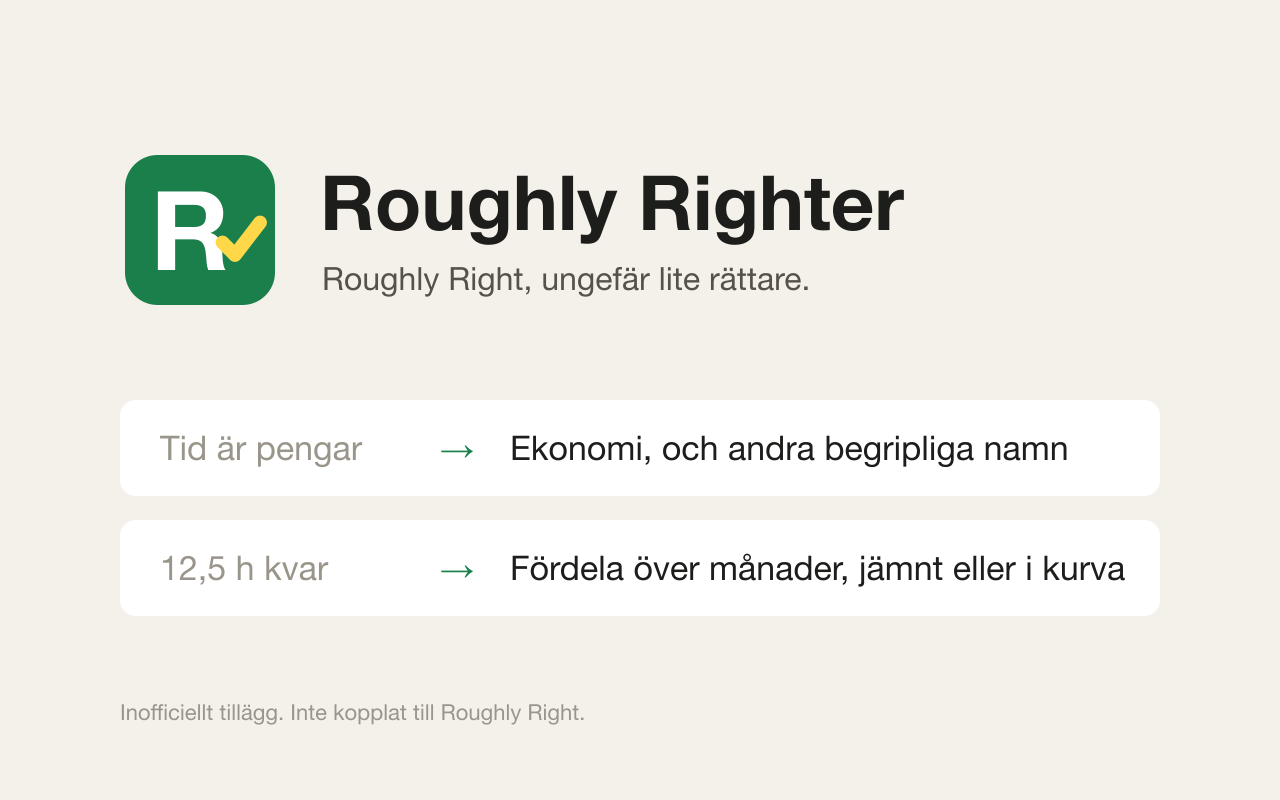
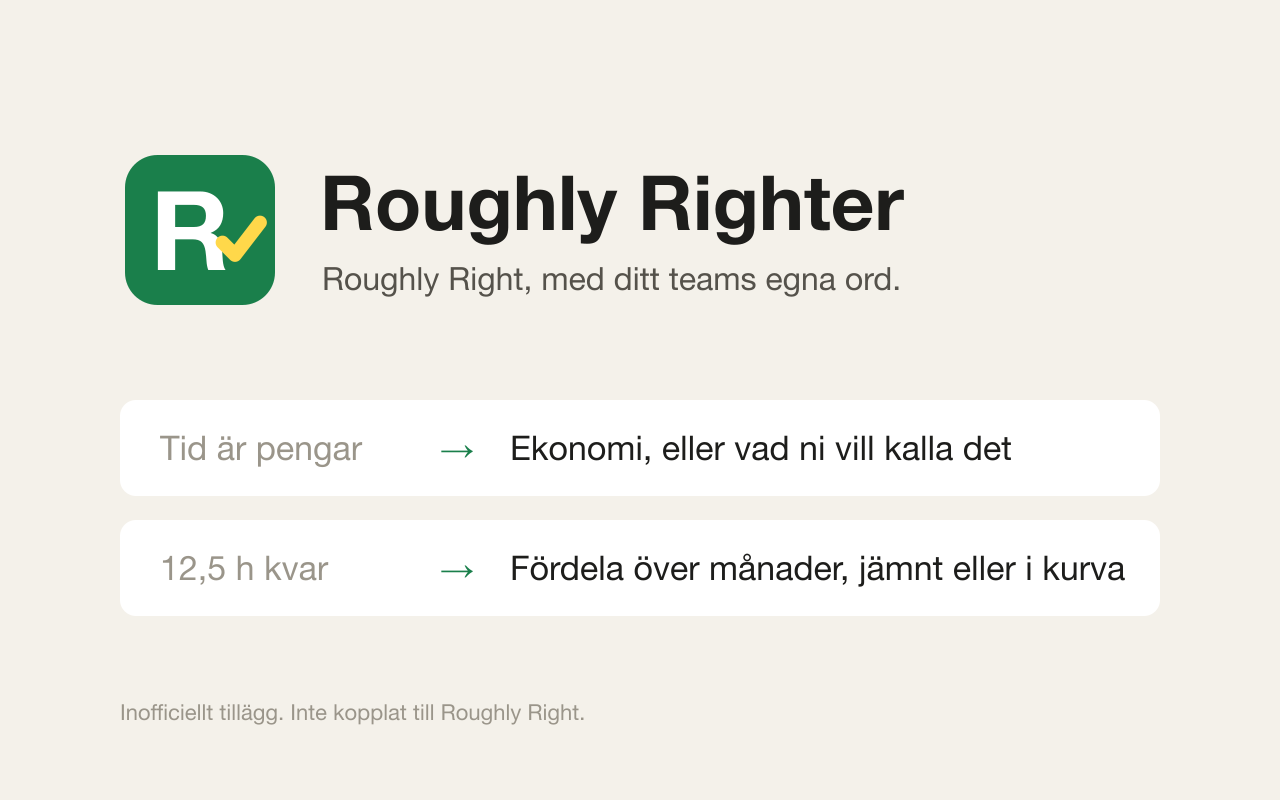
docs: mjukare formuleringar i store-text och skärmdump (#9)

Changed region(s): [[0.5312, 0.5312, 0.8438, 0.5938], [0.4375, 0.3125, 0.6875, 0.375]]

diff --git a/store/listing.md b/store/listing.md
@@ -8,9 +8,9 @@ Klistra in fälten i devconsole. Ladda upp `dist/roughly-righter-<version>.zip` 
 
 Inofficiellt tillägg för Roughly Right. Inte kopplat till Roughly Right.
 
-Roughly Righter gör Roughly Right ungefär lite rättare:
+Roughly Righter låter dig anpassa Roughly Right efter hur ditt team pratar:
 
-1. Byter otydliga texter mot begripliga namn, till exempel "Tid är pengar" blir "Ekonomi" och "Vad har jag gjort?" blir "Tidsrapportering". Du skriver egna regler på inställningssidan, en per rad: Gammal text => Ny text.
+1. Ge menyer och rubriker egna namn, till exempel "Tid är pengar" blir "Ekonomi" och "Vad har jag gjort?" blir "Tidsrapportering". Du skriver egna regler på inställningssidan, en per rad: Gammal text => Ny text.
 2. Gör det enklare att flytta Kvar under Pågående. Klicka på ett belopp och flytta det till en öppen månad, eller fördela det över flera månader jämnt, framtungt, baktungt eller med egen fördelning.
 
 Tillägget körs bara på app.roughlyright.com. Det samlar inte in någon data och skickar inget till tredje part. Flyttar av Kvar sparas direkt i Roughly Right, precis som när du ändrar där själv. Dina regler sparas i Chrome och synkas via ditt Google-konto.
@@ -24,7 +24,7 @@ Tillägget körs bara på app.roughlyright.com. Det samlar inte in någon data o
 
 **Single purpose**
 
-Förbättra gränssnittet i Roughly Right (app.roughlyright.com) genom att byta otydliga texter mot begripliga namn och göra det enklare att fördela återstående belopp (Kvar) över månader.
+Anpassa gränssnittet i Roughly Right (app.roughlyright.com) genom att ge texter egna namn och göra det enklare att fördela återstående belopp (Kvar) över månader.
 
 **storage justification**
 

diff --git a/README.md b/README.md
@@ -1,6 +1,6 @@
 # Roughly Righter
 
-Chrome-tillägg som byter otydliga texter i Roughly Right mot begripligare namn.
+Chrome-tillägg som låter dig ge texter i Roughly Right egna namn.
 Kör bara på `app.roughlyright.com` och fungerar både i webbläsarfliken och i den
 installerade Chrome-appen.
 
